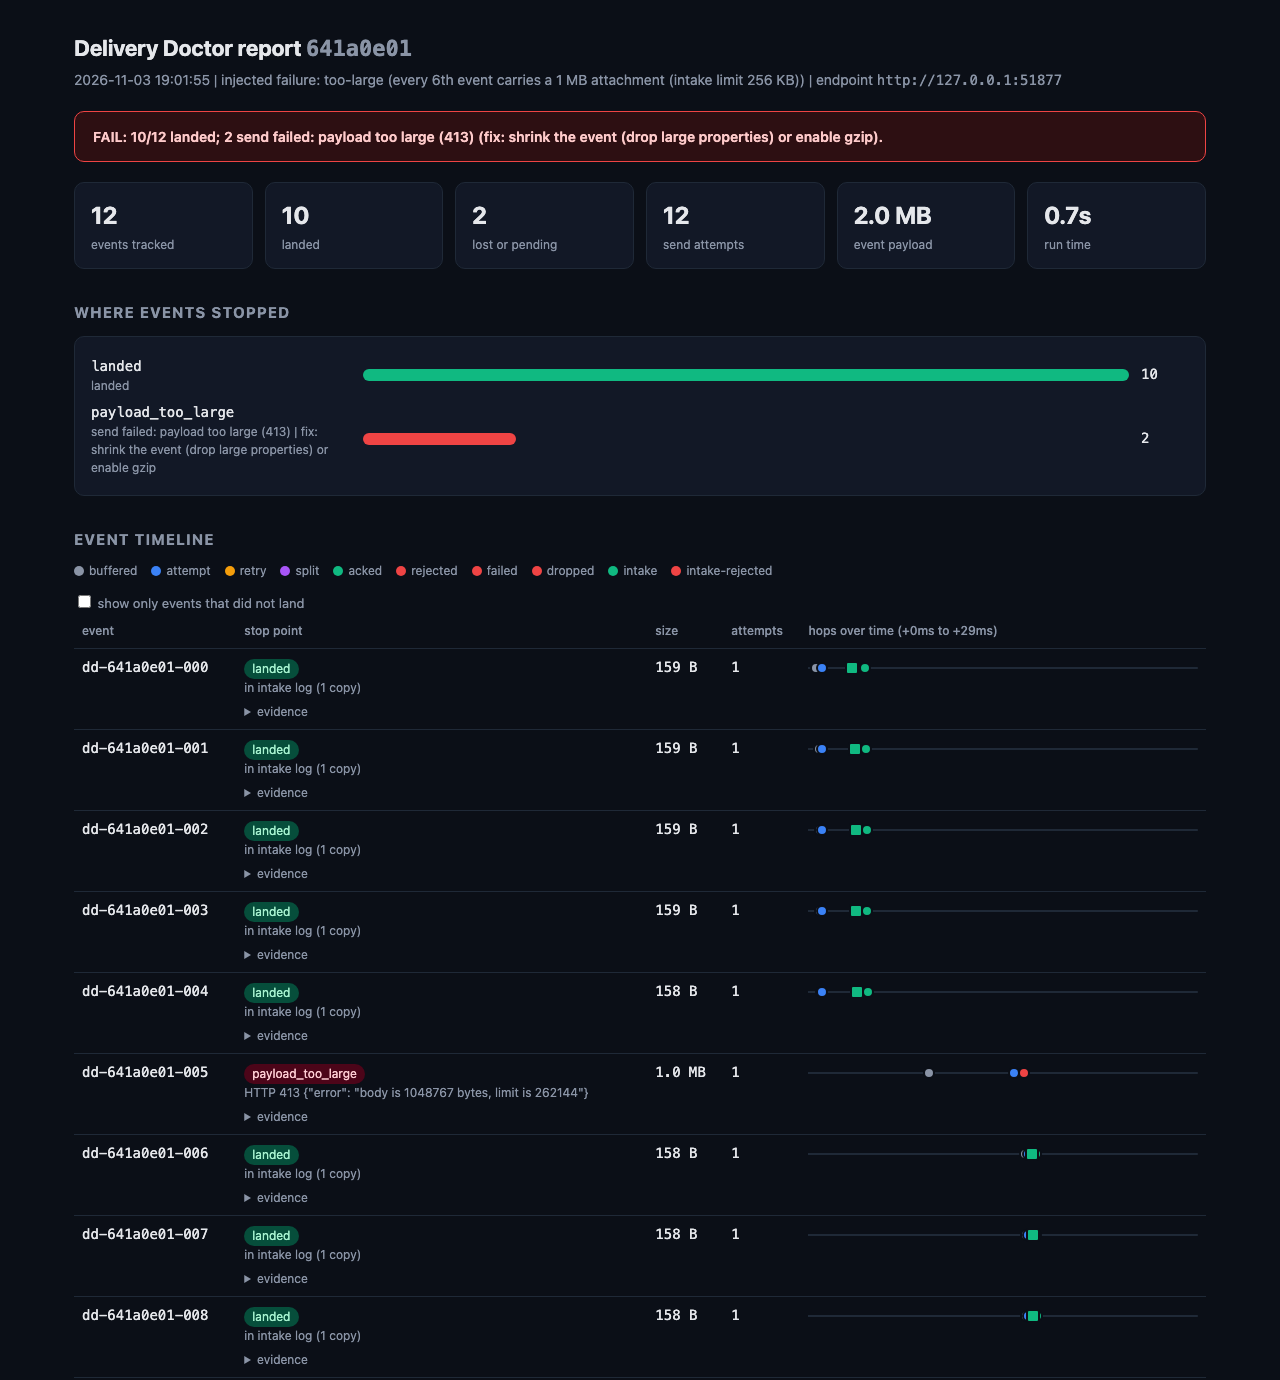
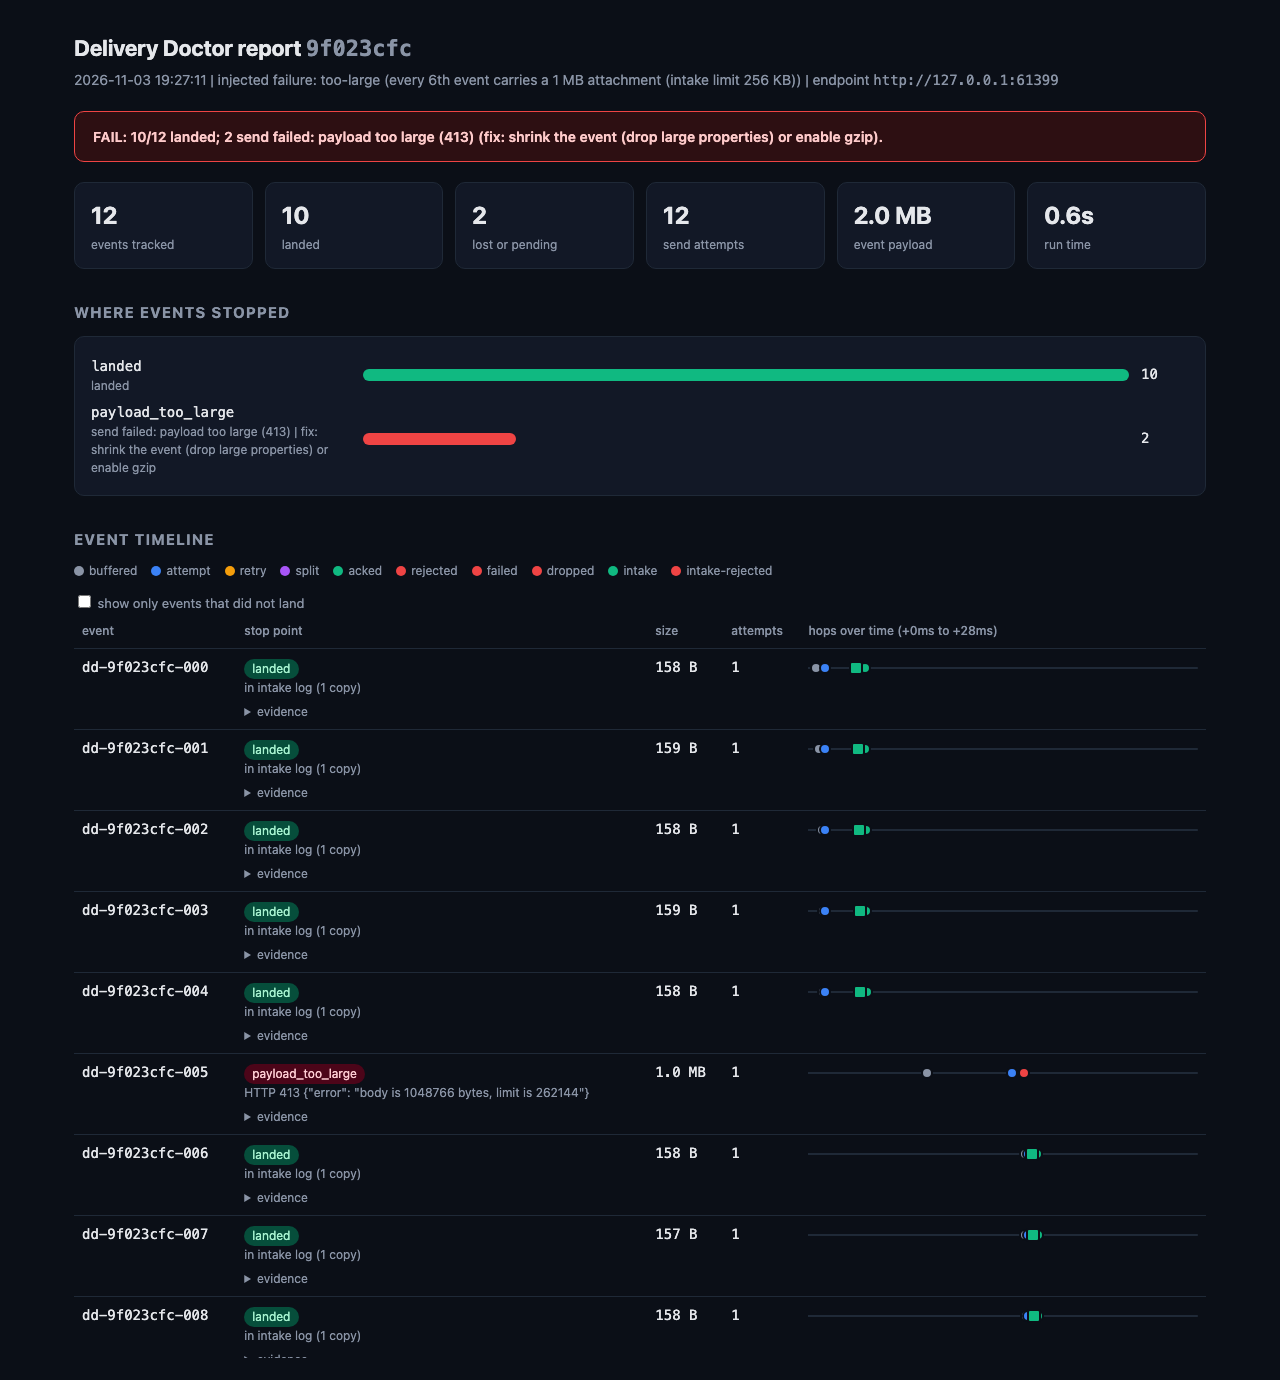
Fix second review round: word-split secret keys, mask short keys in errors, sanitize error text
- secret key names matched per word after camelCase/kebab split
  (authToken, session_id, credentials, jwt; prompt_tokens untouched)
- read key masked in error messages regardless of length
- all printed errors are control-character-free and redacted, including
  the internal-error catch-all
- regenerate report screenshot from final code; 3 regression tests

diff --git a/delivery_doctor/safety.py b/delivery_doctor/safety.py
@@ -24,9 +24,11 @@ MAX_RESPONSE_BYTES = 32 * 1024 * 1024  # intake read-back body
 MAX_REPORT_BYTES = 64 * 1024 * 1024  # report.json accepted by `report --from`
 RUN_ID_RE = re.compile(r"^[0-9a-f]{8}$")
 REDACTED = "[redacted]"
-# Field names whose values are masked. Anchored so e.g. "prompt_tokens" is left alone.
-SECRET_KEY_RE = re.compile(r"(api[_-]?key|access[_-]?key|private[_-]?key|secret|passw(or)?d|"
-                           r"authorization|cookie|(^|[_-])(auth|token|session)$)", re.I)
+# Field names whose values are masked. Names are first split into words
+# (camelCase and kebab-case become snake_case), then matched word by word, so
+# authToken / access-token / session_id are caught while prompt_tokens is not.
+SECRET_KEY_RE = re.compile(r"(api_?key|access_?key|private_?key|secret|passw(or)?d|authorization|"
+                           r"cookie|credentials?|(^|_)(auth|token|session|jwt)(_|$))")
 MIN_SECRET_LEN = 8  # shorter "secrets" would rewrite ordinary text, so they are not substring-masked
 CONTROL_RE = re.compile(r"[\x00-\x08\x0b-\x1f\x7f-\x9f]")
 
@@ -129,7 +131,8 @@ def get_json(url, headers, timeout, limit=MAX_RESPONSE_BYTES, secrets=()):
     within 2 * timeout. Error text is redacted with secrets before it is raised.
     """
     def fail(msg):
-        return DoctorError(redact(f"intake read-back failed: {msg}", secrets))
+        text = safe_text(f"intake read-back failed: {msg}", 1000)
+        return DoctorError(redact(text, secrets, min_len=1))
 
     req = urllib.request.Request(url, headers=headers)
     deadline = time.monotonic() + 2 * timeout
@@ -159,16 +162,27 @@ def safe_text(value, limit=None):
     return text
 
 
-def redact(value, secrets=(), _depth=0):
-    """Copy of value with secret-named keys masked and known secret strings replaced."""
-    secrets = tuple(s for s in secrets if isinstance(s, str) and len(s) >= MIN_SECRET_LEN)
+def is_secret_key(name):
+    if not isinstance(name, str):
+        return False
+    words = re.sub(r"([a-z0-9])([A-Z])", r"\1_\2", name).replace("-", "_").lower()
+    return bool(SECRET_KEY_RE.search(words))
+
+
+def redact(value, secrets=(), _depth=0, min_len=MIN_SECRET_LEN):
+    """Copy of value with secret-named keys masked and known secret strings replaced.
+
+    In bulk data, secrets shorter than min_len are not substring-masked (a
+    1-char "key" would rewrite everything). Error messages pass min_len=1.
+    """
+    secrets = tuple(s for s in secrets if isinstance(s, str) and len(s) >= max(min_len, 1))
     if _depth > 50:
         return REDACTED
     if isinstance(value, dict):
-        return {k: (REDACTED if isinstance(k, str) and SECRET_KEY_RE.search(k)
-                    else redact(v, secrets, _depth + 1)) for k, v in value.items()}
+        return {k: (REDACTED if is_secret_key(k)
+                    else redact(v, secrets, _depth + 1, min_len)) for k, v in value.items()}
     if isinstance(value, list):
-        return [redact(v, secrets, _depth + 1) for v in value]
+        return [redact(v, secrets, _depth + 1, min_len) for v in value]
     if isinstance(value, str):
         for s in secrets:
             value = value.replace(s, REDACTED)

diff --git a/delivery_doctor/__main__.py b/delivery_doctor/__main__.py
@@ -13,11 +13,11 @@ import json
 import os
 import sys
 
-from delivery_doctor.doctor import (FAILURES, FAIL_MODES, MAX_EVENTS, MIN_EVENTS, latest_report,
-                                    render_table, run_check, runs_dir)
+from delivery_doctor.doctor import (FAILURES, FAIL_MODES, MAX_EVENTS, MIN_EVENTS, MOCK_KEYS,
+                                    latest_report, render_table, run_check, runs_dir)
 from delivery_doctor.html_report import write_html
 from delivery_doctor.safety import (MAX_REPORT_BYTES, RUN_ID_RE, DoctorError, check_output_path,
-                                    safe_text, validate_intake_url)
+                                    redact, safe_text, validate_intake_url)
 from delivery_doctor.watch import BOUNDS, check_volume
 
 EXIT_OK, EXIT_LOST, EXIT_USAGE, EXIT_ERROR, EXIT_INTERRUPTED = 0, 1, 2, 3, 130
@@ -230,21 +230,24 @@ def _run(args, ap):
 def main(argv=None):
     ap = build_parser()
     args = ap.parse_args(argv)
+    secrets = MOCK_KEYS + tuple(k for k in (getattr(args, "api_key", None),
+                                            os.environ.get(API_KEY_ENV)) if k)
+
+    def report_error(text, code):
+        print("error: " + redact(safe_text(text, 1000), secrets, min_len=1), file=sys.stderr)
+        return code
+
     try:
         return _run(args, ap)
     except UsageError as e:
-        print(f"error: {e}", file=sys.stderr)
-        return EXIT_USAGE
+        return report_error(str(e), EXIT_USAGE)
     except DoctorError as e:
-        print(f"error: {e}", file=sys.stderr)
-        return EXIT_ERROR
+        return report_error(str(e), EXIT_ERROR)
     except KeyboardInterrupt:
         print("interrupted", file=sys.stderr)
         return EXIT_INTERRUPTED
     except Exception as e:  # never let a crash masquerade as exit 1 ("events lost")
-        print(f"error: internal error, no verdict: {type(e).__name__}: {safe_text(e, 500)}",
-              file=sys.stderr)
-        return EXIT_ERROR
+        return report_error(f"internal error, no verdict: {type(e).__name__}: {e}", EXIT_ERROR)
 
 
 if __name__ == "__main__":

diff --git a/tests/test_hardening.py b/tests/test_hardening.py
@@ -716,6 +716,33 @@ class ReviewRegressionTests(TempCase):
         for k in ("access_token", "private_key", "auth", "session"):
             self.assertEqual(out[k], "[redacted]")
 
+    def test_camel_case_and_word_split_secret_keys(self):
+        for k in ("authToken", "accessToken", "idToken", "sessionToken", "session_id",
+                  "auth_header", "credentials", "jwt", "X-Api-Key", "client-secret"):
+            self.assertTrue(safety.is_secret_key(k), k)
+        for k in ("prompt_tokens", "completion_tokens", "author", "tokenizer", "event_id"):
+            self.assertFalse(safety.is_secret_key(k), k)
+
+    def test_short_read_key_and_control_chars_masked_in_errors(self):
+        class Echo(Quiet):
+            def do_GET(self):
+                self._send(401, json.dumps({"error": "bad key " + self.headers["X-Api-Key"]
+                                            + " \x1b[2J"}).encode())
+        line = json.dumps({"event_id": "e1", "stage": "buffered", "t": 1})
+        with mock.patch.dict(os.environ, {"DELIVERY_DOCTOR_API_KEY": "abc1234"}):
+            code, _, err = self.attach([line], Echo)
+        self.assertEqual(code, 3)
+        self.assertNotIn("abc1234", err)
+        self.assertNotIn("\x1b", err)
+
+    def test_internal_error_text_is_redacted(self):
+        boom = RuntimeError(f"exploded near {DEFAULT_API_KEY}\x1b[2J")
+        with mock.patch.object(doctor, "emitter_cmd", side_effect=boom):
+            code, _, err = self.run_cli(["check", "--n", "2"])
+        self.assertEqual(code, 3)
+        self.assertNotIn(DEFAULT_API_KEY, err)
+        self.assertNotIn("\x1b", err)
+
     def test_watch_volume_cap_is_a_usage_error(self):
         self.assertEqual(self.run_cli(["watch", "--rate", "1000", "--duration", "3600"])[0], 2)
 

diff --git a/README.md b/README.md
@@ -179,7 +179,7 @@ Each run writes to `.doctor_runs/<run_id>/` in the repo, or to `$DELIVERY_DOCTOR
 | `report.json` | the verdict plus per-event evidence; payloads over 2 KB are replaced by their size |
 | `emitter_stderr.txt` | watch mode only: the emitter's stderr |
 
-Run directories are created owner-only (`0700`) and `report.json` is `0600`. Before `report.json` or an HTML report is written, values under secret-looking keys are replaced with `[redacted]`. That covers `api_key`, `access_key`, `private_key`, `secret`, `password`, `authorization`, and `cookie`, plus keys named, or ending in, `auth`, `token`, or `session`; `prompt_tokens`-style counters are left alone. The configured read key and the mock's test keys are replaced wherever they appear, including emitter stderr, and redaction runs before any truncation. Credentials are stripped from the endpoint URL. A read key shorter than 8 characters is not substring-masked, because masking would rewrite ordinary text. The same redaction is applied to reports rendered with `report --from`. The HTML report reduces local file paths to file names, because it is meant to be shared. It carries a Content-Security-Policy that blocks all network loads and allows only its own inline script, pinned by hash. Every value from the report is escaped, so a crafted `report.json` passed to `--from` cannot inject markup.
+Run directories are created owner-only (`0700`) and `report.json` is `0600`. Before `report.json` or an HTML report is written, values under secret-looking keys are replaced with `[redacted]`. Key names are split into words first, so `authToken`, `access-token`, and `session_id` all count. That covers `api_key`, `access_key`, `private_key`, `secret`, `password`, `authorization`, `cookie`, and `credentials`, plus any name with the word `auth`, `token`, `session`, or `jwt`; `prompt_tokens`-style counters are left alone. The configured read key and the mock's test keys are replaced wherever they appear, including emitter stderr, and redaction runs before any truncation. Credentials are stripped from the endpoint URL. A read key shorter than 8 characters is masked in error messages but not inside report data, where masking it would rewrite ordinary text. The same redaction is applied to reports rendered with `report --from`. Error messages also have control characters removed before they are printed. The HTML report reduces local file paths to file names, because it is meant to be shared. It carries a Content-Security-Policy that blocks all network loads and allows only its own inline script, pinned by hash. Every value from the report is escaped, so a crafted `report.json` passed to `--from` cannot inject markup.
 
 Nothing is deleted automatically. `rm -rf .doctor_runs` clears every run. The raw `intake_log.jsonl` is not redacted. It is the mock server's own log and holds whatever the canaries carried.
 
@@ -207,7 +207,7 @@ The suite uses only the standard library:
 python3 -m unittest discover -s tests -t .
 ```
 
-It runs 82 tests in about 50 seconds. Every server in it is a local fake on `127.0.0.1`, and nothing in it touches the network beyond loopback. If you already have pytest, `python3 -m pytest -q` runs the same tests.
+It runs 85 tests in about 50 seconds. Every server in it is a local fake on `127.0.0.1`, and nothing in it touches the network beyond loopback. If you already have pytest, `python3 -m pytest -q` runs the same tests.
 
 ## Readiness
 
